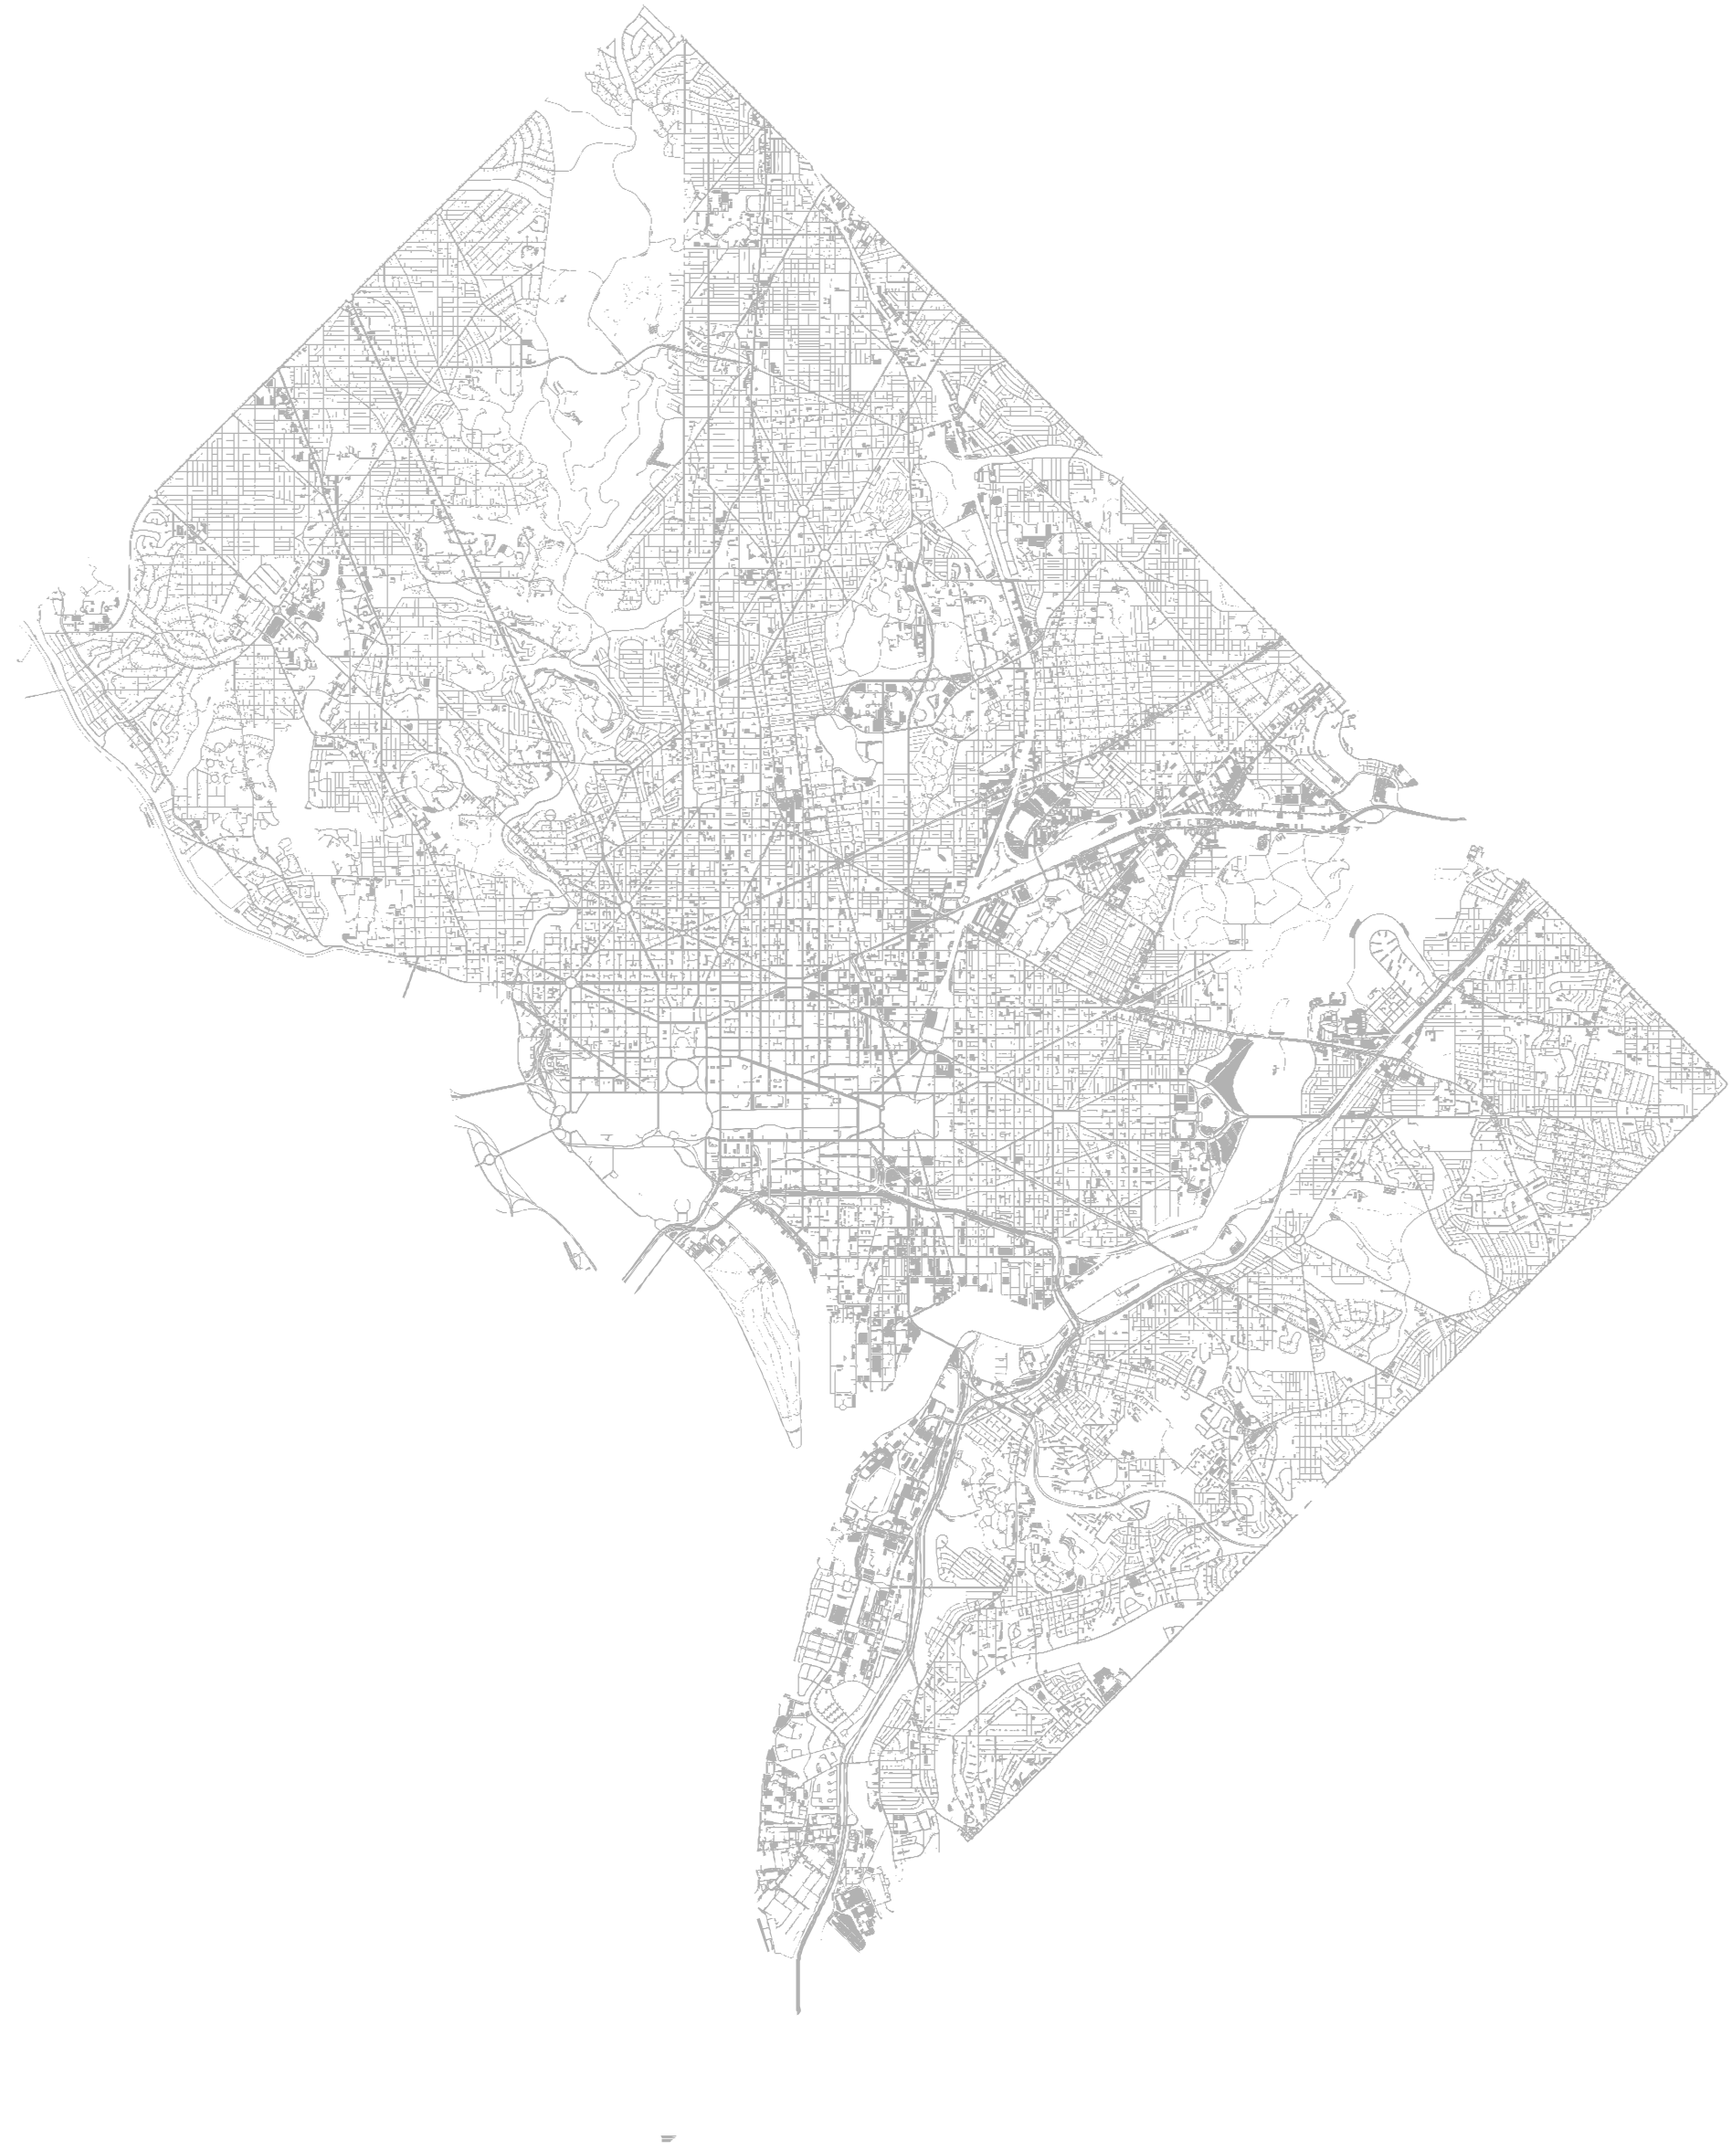
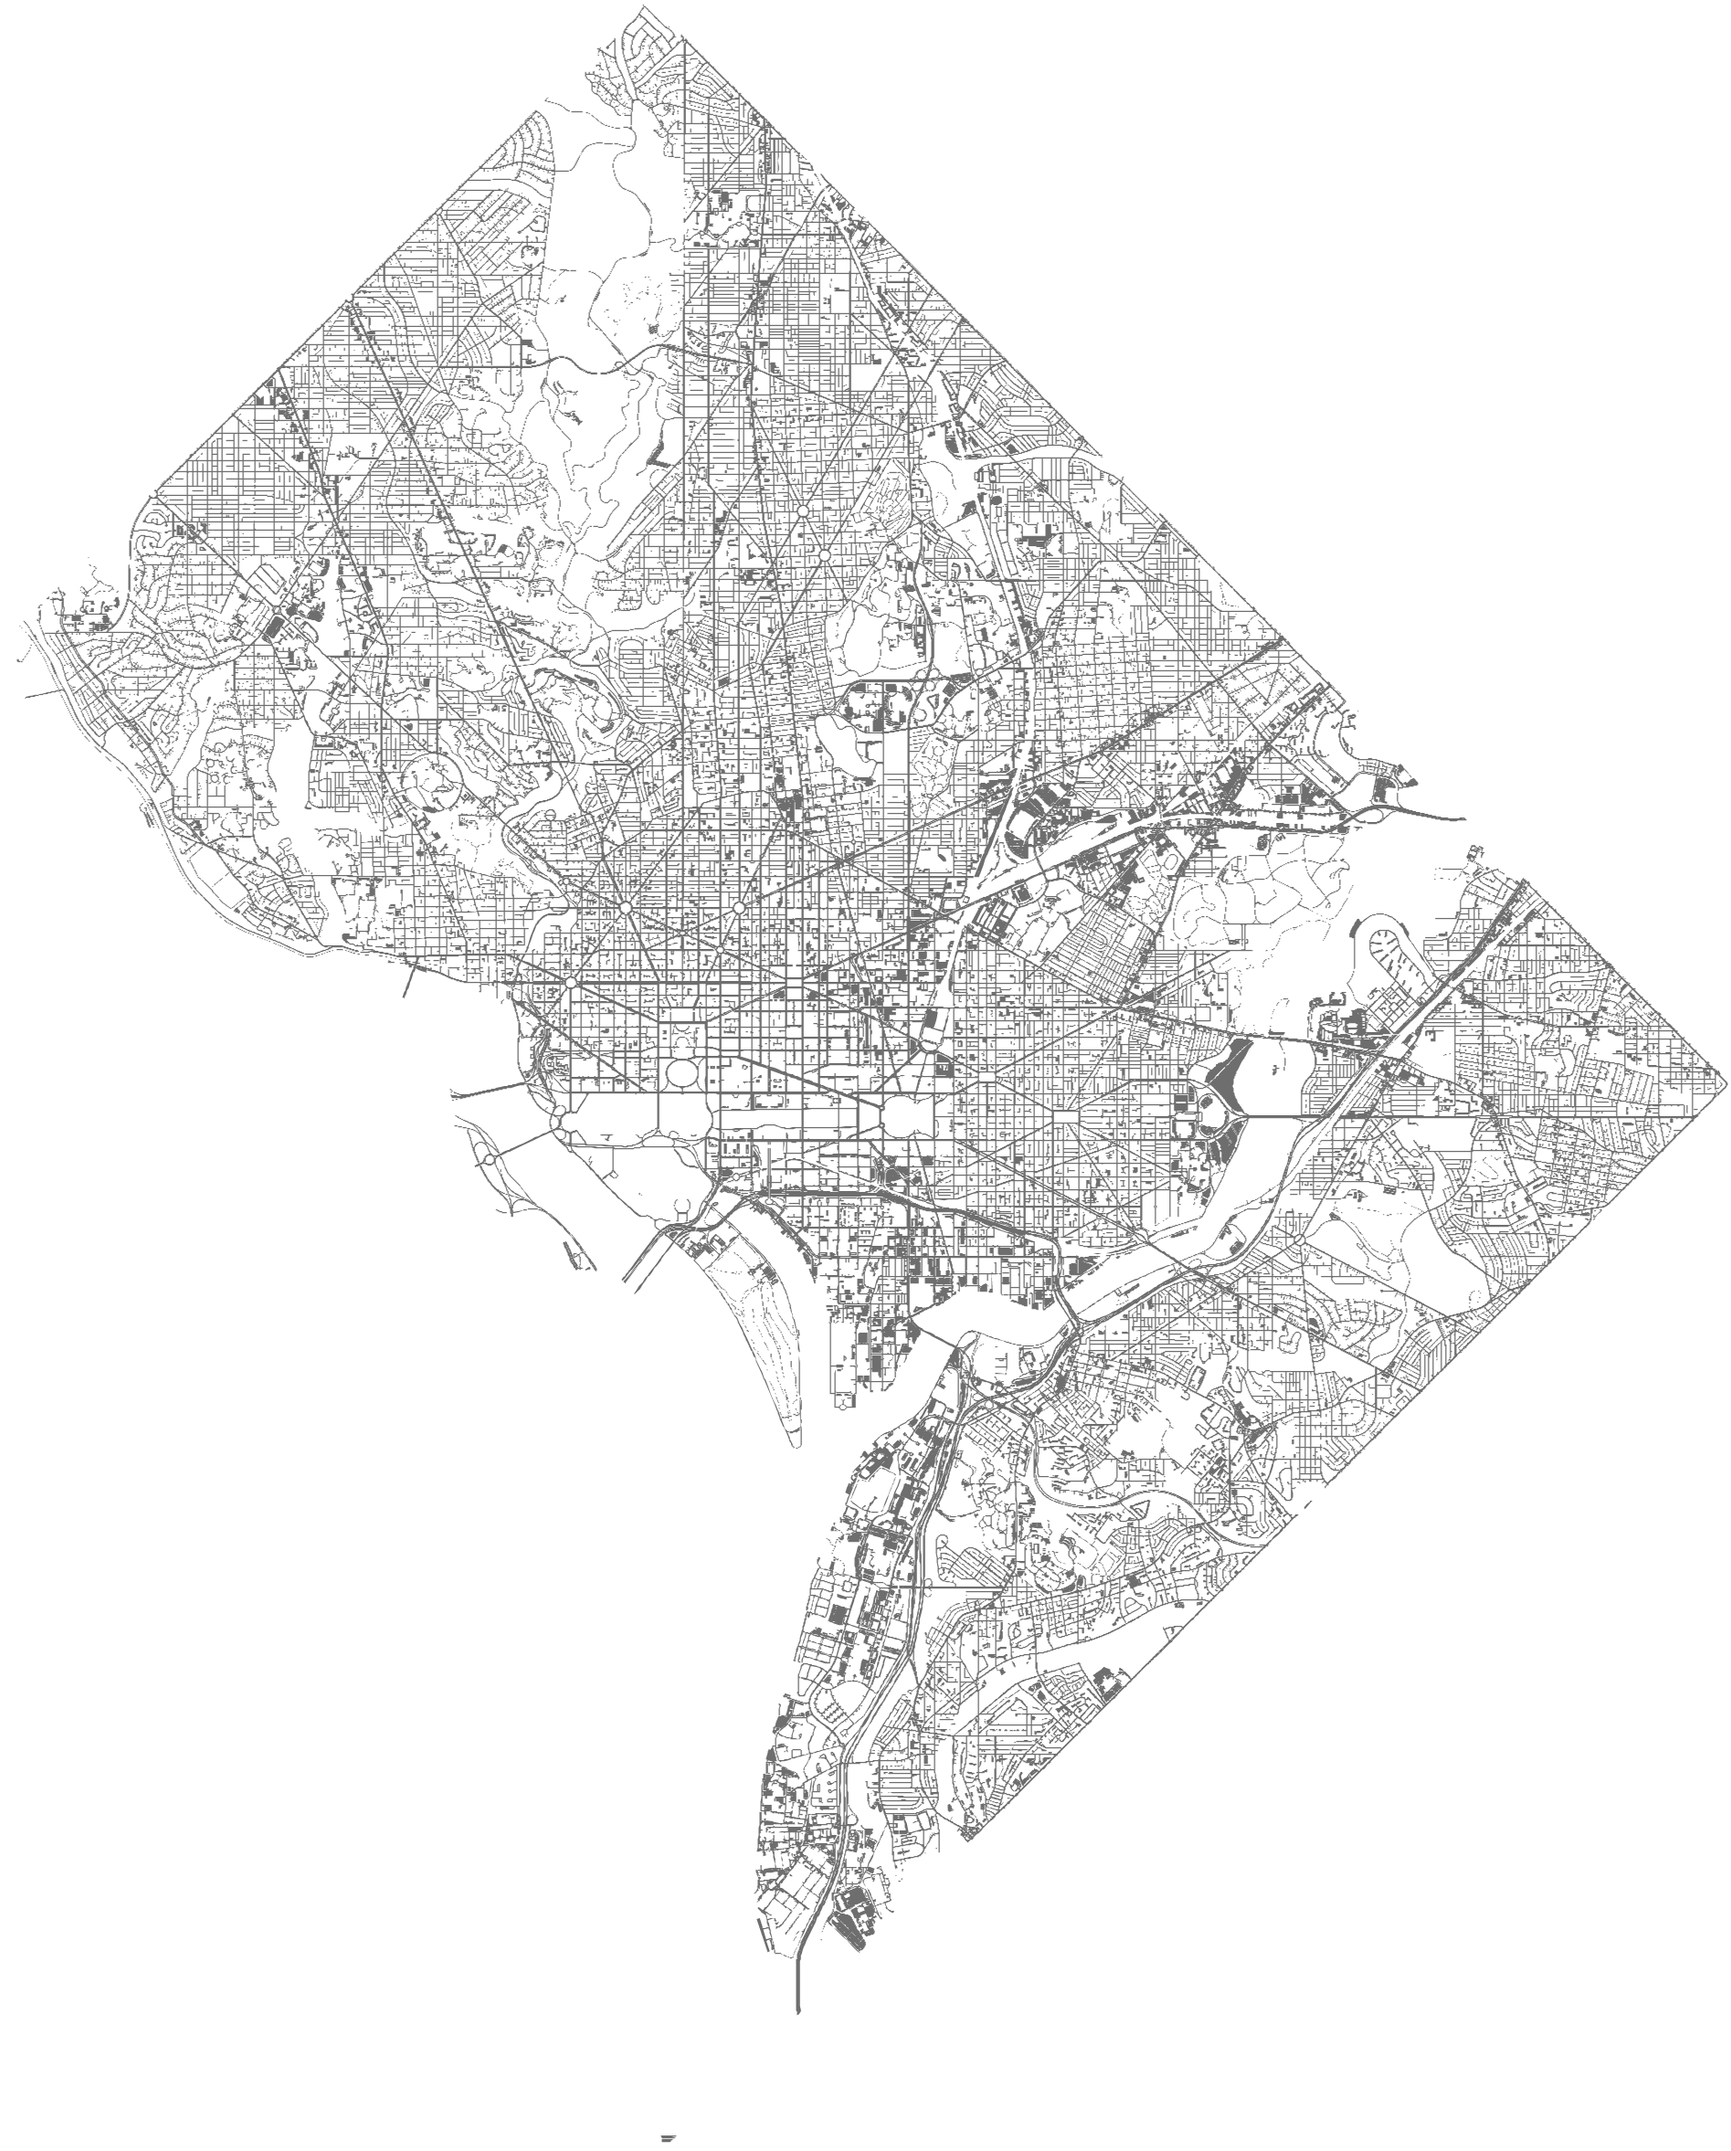
update background and layout

Changed region(s): [[0.0311, 0.0, 0.9963, 0.9299]]

diff --git a/js/map.js b/js/map.js
@@ -91,12 +91,20 @@ for (each in col_range) {
 }
 
 // d3.schemePuOr[8]
-var newscheme = ["#0f354a","#4881a1","#7eb7d6","#c0ecff",
+var scheme_pu_or = d3.schemePuOr[8]
+var scheme_pi_gr = d3.schemePiYG[8]
+var scheme_pu_gr = d3.schemePRGn[8]
+var scheme_br_bg = d3.schemeBrBG[8]
+
+
+var scheme_brown_blue = ["#0f354a","#4881a1","#7eb7d6","#c0ecff",
 "#f7e1d7","#febc99","#aa6c4f","#410302"]
+var scheme_pi_gr2 = ['#8e0152','#c51b7d','#f1b6da','#fde0ef',
+'#e6f5d0','#b8e186','#4d9221','#276419']
 
 var color_change = d3.scaleThreshold()
     .domain(col_range)
-    .range(newscheme);
+    .range(scheme_pi_gr2);
 
 var sel_year = "16";
 var sel_indicator;
@@ -179,7 +187,7 @@ function createLegend(indicator){
     });
 
   var indicator_svg = indicator_div.append("svg")
-      .attr("width", 340)
+      .attr("width", 320)
       .attr("height", 55);
 
   var g = indicator_svg.append("g")
@@ -195,20 +203,6 @@ function createLegend(indicator){
     .select(".domain")
       .remove();
 
-  // g.selectAll("rect")
-  //   .data(color_scale.range().map(function(d) {
-  //       d = color_scale.invertExtent(d);
-  //       if (d[0] == null) d[0] = x_scale.domain()[0];
-  //       if (d[1] == null) d[1] = x_scale.domain()[1];
-  //       return d;
-  //     }))
-  //   .enter().append("rect")
-  //     .attr("height", 14)
-  //     .attr("x", function(d) { return x_scale(d[0]); })
-  //     .attr("width", function(d) { return x_scale(d[1]) - x_scale(d[0]); })
-  //     .attr("fill", function(d) { return color_scale(d[0]); });
-      // .attr("class",indicator_class);
-
   g.append("text")
       .attr("class", "caption")
       .attr("x", x_scale.range()[0])
@@ -221,23 +215,18 @@ function createLegend(indicator){
       .attr("class",indicator_class+" key_text")
       .attr("pointer-events","none");
 
-  // d3.selectAll("."+indicator_class).on("click", function(d){
-  //   return updateChoro(indicator);
-  // });
-
   d3.selectAll("."+indicator_class).on("mouseover", function(d){
-    // d3.selectAll("."+indicator_class+".key")
-    //   .attr("background-color", "red")
-    //   .attr("border", "double");
+
     d3.selectAll("."+indicator_class+".key_text")
       .attr("fill", "white");
+
   });
 
   d3.selectAll("."+indicator_class).on("mouseout", function(d){
-    // d3.selectAll("."+indicator_class+".key")
-    //   .attr("background-color", "red");
+
     d3.selectAll("."+indicator_class+".key_text")
       .attr("fill", "#000");
+
   });
 
   tmp = [-100000,-100000];
@@ -404,7 +393,6 @@ function ready(error, blocks, hoods) {
 
   features_bg = topojson.feature(blocks, blocks.objects.bg_09_16_sj);
   bbox = path.bounds(features_bg);
-  console.log(bbox);
 
   if (error) throw error;
 
@@ -490,11 +478,11 @@ function ready(error, blocks, hoods) {
 
   map_svg_g.append("svg:image")
     .attrs({
-      'xlink:href': 'data/Roads_Pretty-02.png',
+      'xlink:href': 'data/Roads_Pretty-02_light.png',
       x: bbox[0][0],
       y: bbox[0][1],
       width: 572.3,
-      opacity: 0.6
+      opacity: 0.5
     })
     .classed("zoomable","true");
 

diff --git a/css/style.css b/css/style.css
@@ -1,4 +1,4 @@
-@font-face {
+/* @font-face {
     font-family: "Arial MT Std";
     src: url(https://gfw2-data.s3.amazonaws.com/fires/d3/Dashboard/ArialMTStd-LightCond.otf) format("opentype");
     font-weight: normal;
@@ -7,7 +7,7 @@
     font-family: "Firas";
     src: url(https://gfw2-data.s3.amazonaws.com/fires/d3/Dashboard/FiraSans-Regular.otf) format("opentype");
     font-weight: normal;
-}
+} */
 #year1{
   position: absolute;
   top: 70px;
@@ -21,20 +21,30 @@
 #map_container svg{
   display: block;
   margin: auto;
-  /* position: absolute;
+  /* position: relative;
   left: 100px; */
 }
 #legend_container{
   position: absolute;
-  right: 20px;
-  top: 20px;
-  background-color: #F7F7F7;
-  border-radius: 10px;
+  right: 0px;
+  /* top: 20px; */
+  width: 380px;
+  height: 100%;
+  background-color: white;
+  /* border-radius: 10px; */
+}
+/* #legend_container * {
+  margin-right: 10px;
+} */
+.homeownership_sel.key {
+  margin-top: 50px;
 }
 .key {
   /* opacity:0.5 */
   /* background-color: gray; */
   margin-top: 10px;
+  margin-left: 10px;
+  margin-right: 30px;
   border-radius: 10px;
   /* border: solid 0.5px; */
   /* border: double; */
@@ -85,11 +95,11 @@ svg image {
   fill: #383838;
   opacity: 1;
   font-size: 10px;
-  font-weight: 200;
+  font-weight: 300;
   text-anchor: middle;
   /* text-transform: uppercase; */
   letter-spacing: 0.05px;
-  font-family: "Firas","Arial MT Std", Helvetica, sans-serif, Arial;
+  font-family: Helvetica, sans-serif, Arial;
   pointer-events: none;
 }
 .trend {
@@ -107,10 +117,14 @@ svg image {
   /* stroke-width: 2px; */
 }
 #block_name {
+  top: 25px;
+  position: relative;
   display: inline;
   color: gray;
 }
 #neighborhood_name {
+  top: 25px;
+  position: relative;
   display: inline;
 }
 #tooltip{
@@ -118,8 +132,8 @@ svg image {
   width:150px;
   height:auto;
   padding:10px;
-  /* background-color: rgba(0,0,0,0.5); */
-  background-color: rgba(229,229,229,0.7);
+  background-color: rgba(0,0,0,0.5);
+  /* background-color: rgba(229,229,229,0.7); */
   border-radius:10px;
   box-shadow: 4px 4px 10px rgba(0,0,0,0.4);
   /* box-shadow: 0 0 0 0.2rem rgba(52,58,64,.5); */
@@ -129,6 +143,7 @@ svg image {
   margin:0;
   font-family: sans-serif;
   font-size:12px;
+  color: white;
 }
 #tooltip.hidden{
   display:none;
@@ -147,7 +162,7 @@ svg image {
   position: absolute;
   left: 50px;
   top: 50px;
-  width: 300px;
+  width: 260px;
 }
 h2{
   position: relative;
